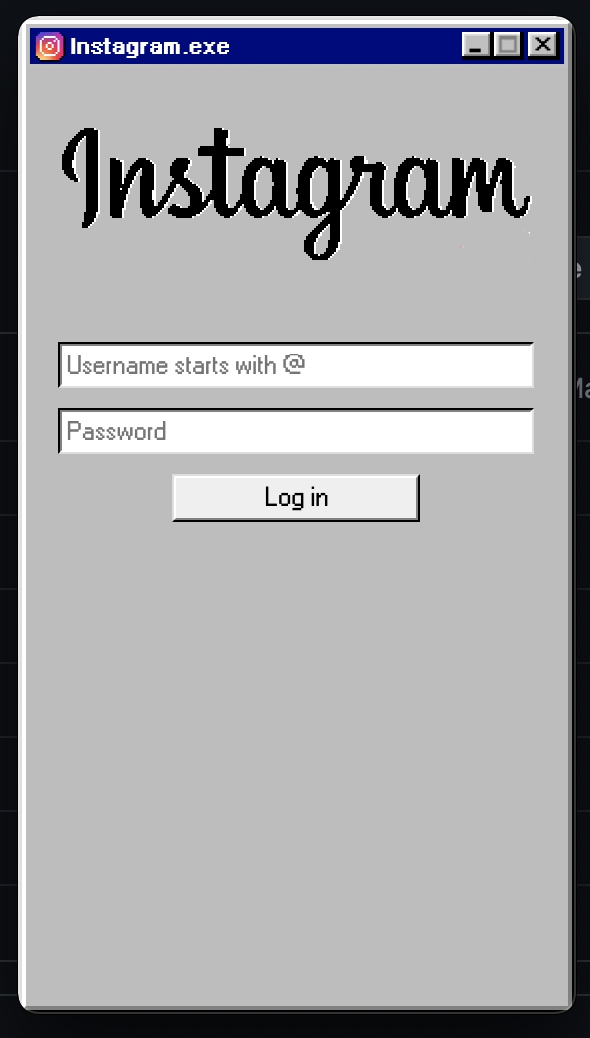
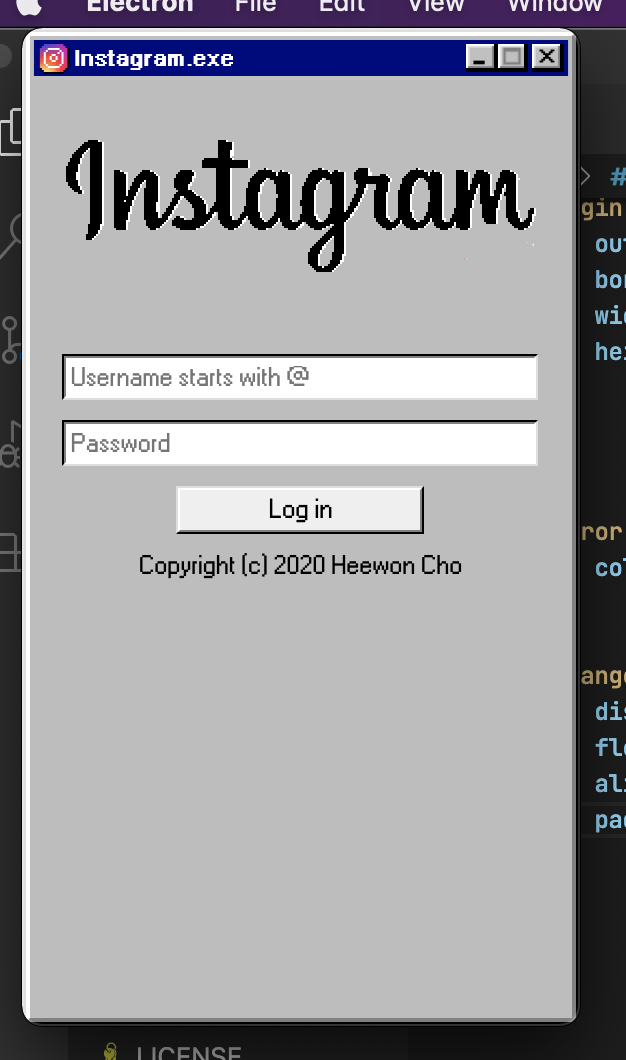
FIX

Changed region(s): [[0.0, 0.0, 1.0, 1.0], [0.122, 0.2158, 0.1525, 0.2466]]

diff --git a/src/login/index.html b/src/login/index.html
@@ -36,6 +36,7 @@
                         </div>
                     </div>
                 </div>
+                Copyright (c) 2020 Heewon Cho 
             </div>
         </div>
     </div>

diff --git a/src/login/style.css b/src/login/style.css
@@ -214,4 +214,5 @@ body {
     display: flex;
     flex-direction: column;
     align-items: center;
+    padding-bottom: 10px;
 }
